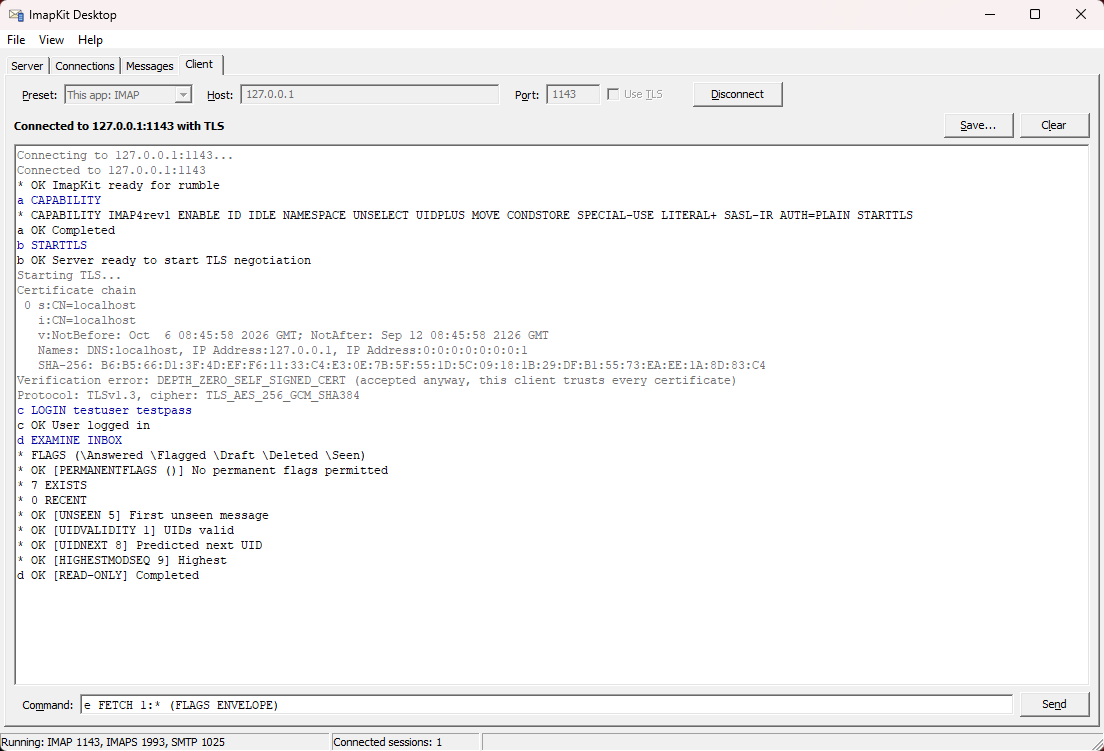
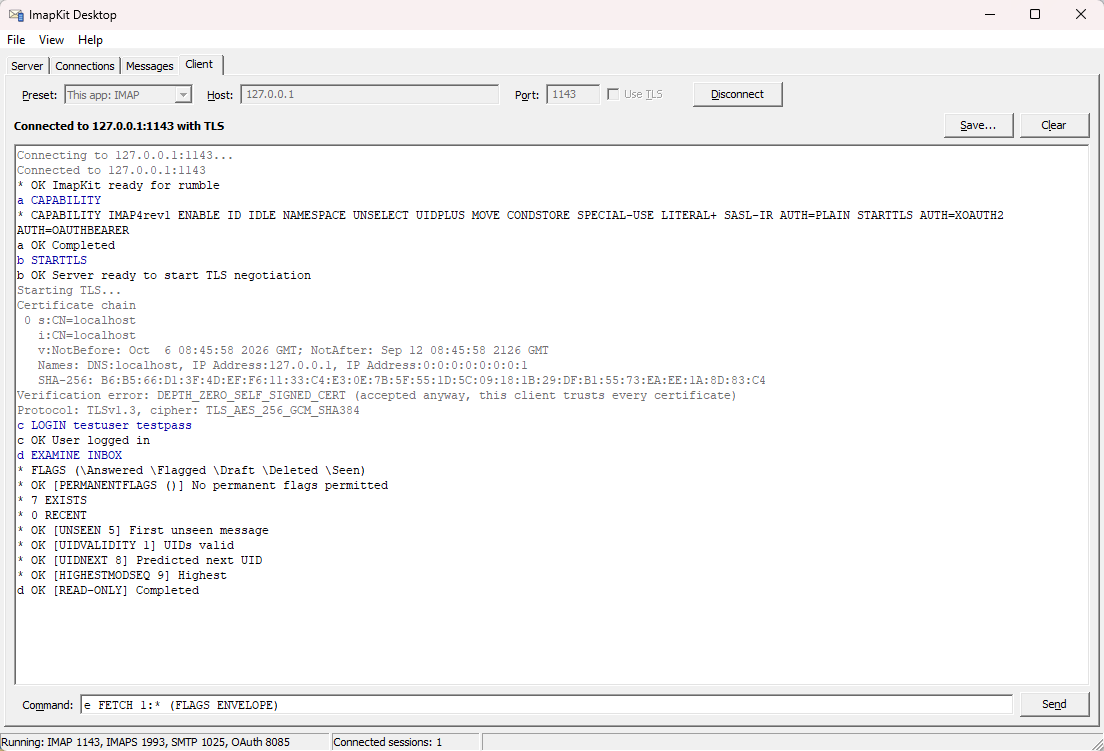
docs: the OAuth tab of ImapKit Desktop, new screenshots

Changed region(s): [[0.0, 0.2756, 0.6775, 0.7963], [0.8315, 0.2756, 0.9239, 0.3063], [0.2156, 0.98, 0.2772, 1.0]]

diff --git a/docs/docs/apps/desktop-windows.md b/docs/docs/apps/desktop-windows.md
@@ -69,6 +69,7 @@ The banner at the top shows whether the server runs, and where. Stop and Start t
 - **Limits & ID:** limits that make the server refuse what goes over them, the largest message (APPENDLIMIT), a quota for storage and message count (QUOTA, optionally only a warning), the messages per command (MESSAGELIMIT or SAVELIMIT) and the largest literal. Each limit shows whether the extension it needs is turned on. Below them, the answer to the ID command: the server says `ID NIL` unless you fill in fields like `name` and `version` and turn them on, to look like a server a client knows.
 - **Faults:** [quirk presets](../faults/quirk-presets.md) that make the server behave like a known real server, and [script rules](../faults/scripted-faults.md) that make it misbehave on purpose, like dropping the connection or answering slowly.
 - **SMTP:** rules of the SMTP server, see [SMTP rules](#smtp-rules).
+- **OAuth:** a test OAuth 2.0 / OpenID Connect provider, so an email client can sign in through the browser, see [OAuth sign-in](#oauth-sign-in).
 - **REST API:** turns on the [REST API](../rest-api/overview.md) of ImapKit, so a test script can change the mailboxes while the app runs.
 
 ### SMTP rules
@@ -80,6 +81,20 @@ To test how an app handles mail that is refused:
 - **Require a login** answers `530` to a client that sends without logging in. All mail then goes to the [Outbox](#inbox-and-outbox).
 - **Largest message** is advertised with `SIZE`, larger mail gets `552`.
 - **Rejected recipients** is a table of addresses that `RCPT TO` refuses with the reply code and text of the row. `*` matches anything, so `*@blocked.test` refuses a whole domain. Add Row adds one, double-click a cell (or press F2) to edit it, Tab moves to the next cell.
+
+### OAuth sign-in
+
+![The OAuth tab with the clients and the tokens of a sign-in](/img/desktop/server-oauth.png)
+
+The OAuth tab turns on the [OAuth 2.0 and OpenID Connect provider](../guides/oauth.md) of ImapKit, for testing the sign-in of an email client without a real Google or Microsoft account. It needs no passwords: a sign-in shows a consent page in the browser where you pick an account and click Allow or Deny, or it is allowed or denied right away. The tokens log in to IMAP (XOAUTH2, OAUTHBEARER, which the tab turns on) and to SMTP (AUTH XOAUTH2).
+
+- **Issuer:** where the client finds the provider, its discovery document is at `<issuer>/.well-known/openid-configuration`. Copy puts it on the clipboard, Open shows the provider's page with the clients and users in the browser. The Email client settings box lists the issuer and a client ID too.
+- **Sign-ins:** what a sign-in does by default: **Ask** (the consent page), **Always allow** or **Always deny**.
+- **Access tokens last:** a short time, like 60 seconds, tests how the client refreshes them. With **Give a refresh token to every sign-in** checked the provider behaves like Google, otherwise refresh tokens come only for the `offline_access` scope.
+- **Clients:** the client IDs the provider knows, `imapkit`, `imapkit-approve` (always allows) and `imapkit-deny` (always denies) to begin with. Add a row for the client ID your app uses. Double-click a cell to change it: the Sign-in cell picks what a sign-in of that client does, an empty Redirect URIs cell accepts `127.0.0.1` and `localhost` on any port, which is what desktop apps use.
+- **While it runs:** **Next sign-in** answers only the next sign-in in a chosen way, to test the error paths of a client: denied, failing with `temporarily_unavailable` or `server_error`, a redirect with a wrong `state` or `iss`, or no redirect at all. The token list shows every token with its state, **Expire Access Tokens** makes the next login with them fail like an expired token, **Revoke All** like a revoked sign-in.
+
+The ID token names the account by its user name, and email clients log in with it, so add a test account named like an address, such as `alice@example.com`. The tab says so while no account is named like one. Every step of a sign-in is logged on the Connections page, as lines of the `oauth` session.
 
 ## The Connections page
 
